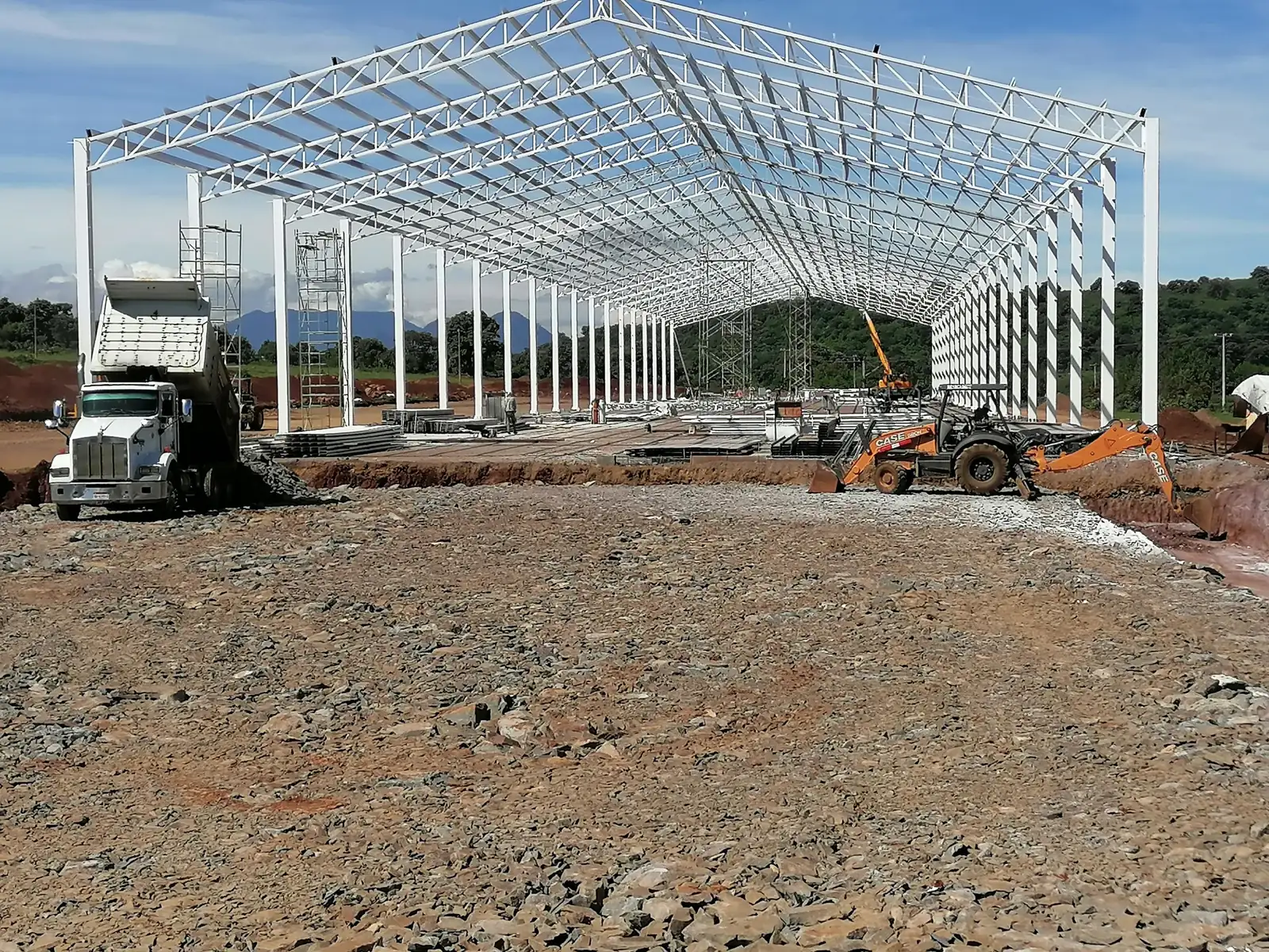
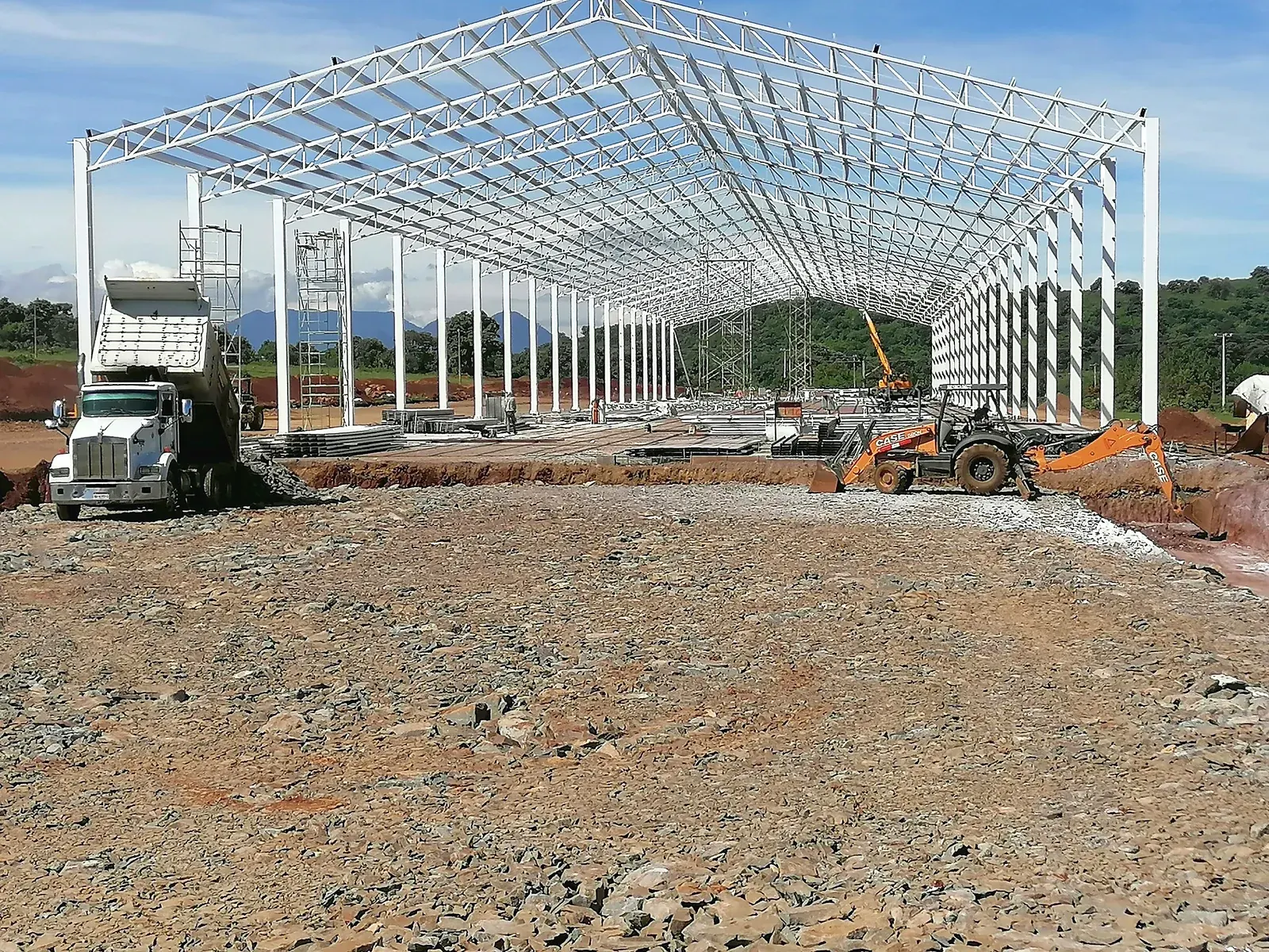
Fotos de naves y casa regradadas desde originales (menos compresion, mejor luz y contraste) y velo oscuro mas ligero

diff --git a/index.html b/index.html
@@ -68,7 +68,7 @@ em{font-style:normal}
 /* OBRAS inmersivas */
 .ob{position:relative;min-height:100svh;display:flex;align-items:flex-end;overflow:hidden;isolation:isolate}
 .ob img.f{position:absolute;inset:-6% 0;width:100%;height:112%;object-fit:cover;z-index:-2;will-change:transform}
-.ob::after{content:"";position:absolute;inset:0;z-index:-1;background:linear-gradient(0deg,rgba(10,12,15,.9) 0,rgba(10,12,15,.6) 42%,rgba(10,12,15,.12) 78%)}
+.ob::after{content:"";position:absolute;inset:0;z-index:-1;background:linear-gradient(0deg,rgba(10,12,15,.84) 0,rgba(10,12,15,.4) 34%,rgba(10,12,15,0) 62%),linear-gradient(90deg,rgba(10,12,15,.38) 0,rgba(10,12,15,0) 50%)}
 .ob .tx{width:100%;padding:90px var(--gut) clamp(30px,6vw,64px);position:relative}
 .ob .n{display:block;font:400 12px var(--mono);letter-spacing:.14em;text-transform:uppercase;margin-bottom:6px}
 .ob h2{margin:0;font:800 clamp(52px,12vw,180px)/.88 var(--sans);letter-spacing:-.04em;text-shadow:0 2px 40px rgba(0,0,0,.35)}

diff --git a/src/portafolio.html b/src/portafolio.html
@@ -68,7 +68,7 @@ em{font-style:normal}
 /* OBRAS inmersivas */
 .ob{position:relative;min-height:100svh;display:flex;align-items:flex-end;overflow:hidden;isolation:isolate}
 .ob img.f{position:absolute;inset:-6% 0;width:100%;height:112%;object-fit:cover;z-index:-2;will-change:transform}
-.ob::after{content:"";position:absolute;inset:0;z-index:-1;background:linear-gradient(0deg,rgba(10,12,15,.9) 0,rgba(10,12,15,.6) 42%,rgba(10,12,15,.12) 78%)}
+.ob::after{content:"";position:absolute;inset:0;z-index:-1;background:linear-gradient(0deg,rgba(10,12,15,.84) 0,rgba(10,12,15,.4) 34%,rgba(10,12,15,0) 62%),linear-gradient(90deg,rgba(10,12,15,.38) 0,rgba(10,12,15,0) 50%)}
 .ob .tx{width:100%;padding:90px var(--gut) clamp(30px,6vw,64px);position:relative}
 .ob .n{display:block;font:400 12px var(--mono);letter-spacing:.14em;text-transform:uppercase;margin-bottom:6px}
 .ob h2{margin:0;font:800 clamp(52px,12vw,180px)/.88 var(--sans);letter-spacing:-.04em;text-shadow:0 2px 40px rgba(0,0,0,.35)}
